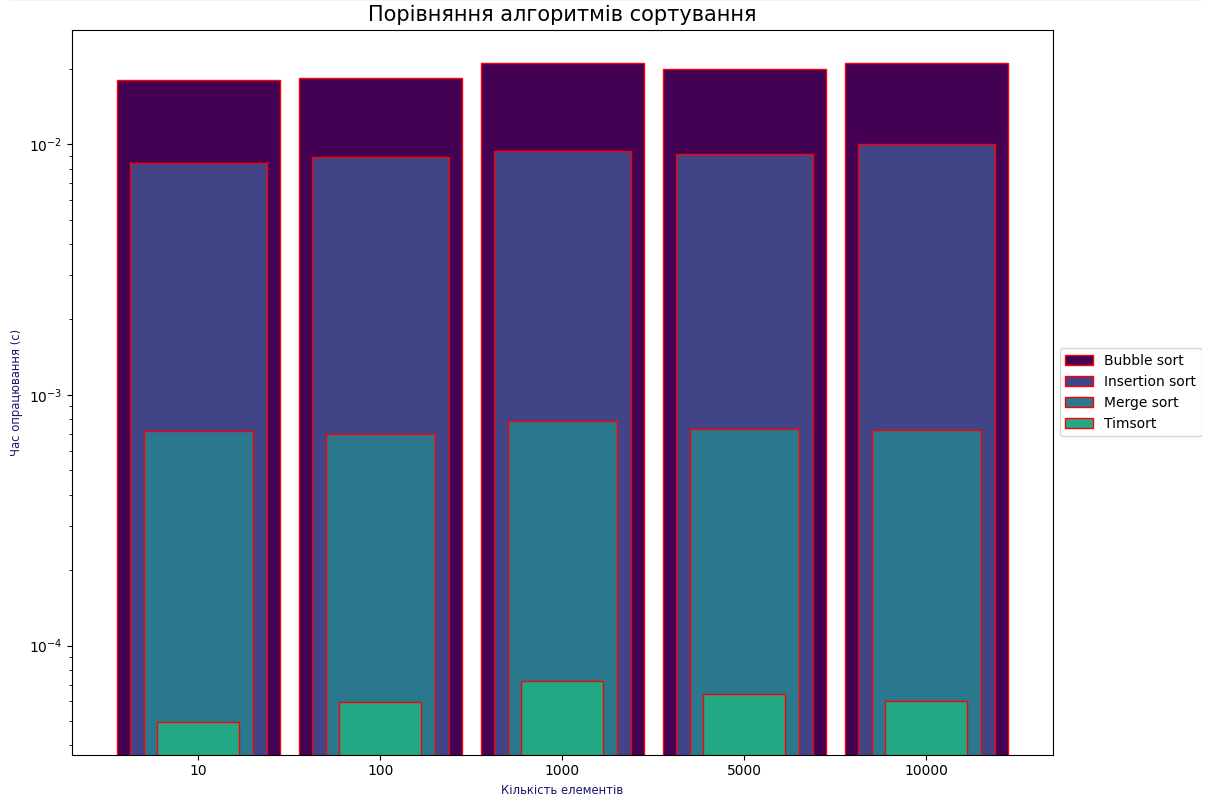
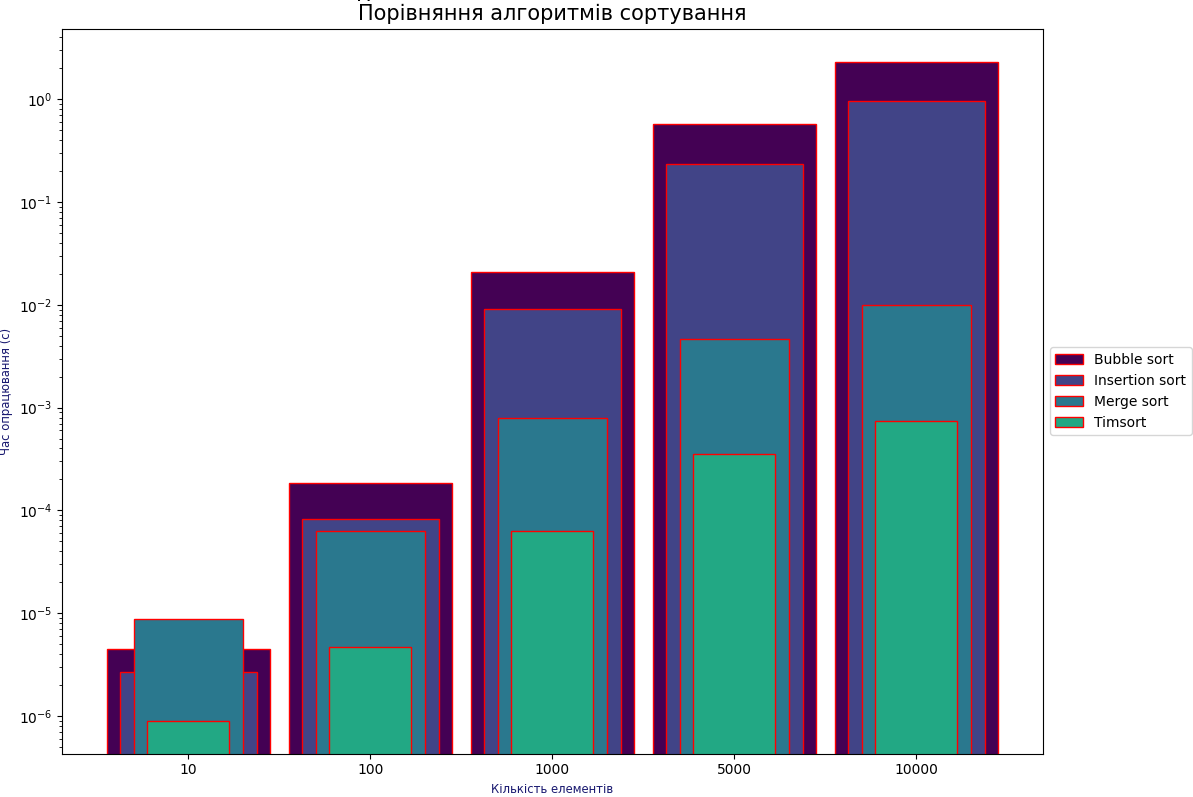
Fixed mistake with forming data

diff --git a/main.py b/main.py
@@ -54,7 +54,7 @@ def data_sort(number: int) -> dict:
     Словник відсортованих даних різними методами для певної кількості даних
     '''
     result = {}
-    data = [random.randint(0, number) for _ in range(1000)]
+    data = [random.randint(0, 1000) for _ in range(number)]
     result['Bubble sort'] = measure_time(data, bubble_sort)
     result['Insertion sort'] = measure_time(data, insertion_sort)
     result['Merge sort'] = measure_time(data, merge_sort)

diff --git a/README.md b/README.md
@@ -12,7 +12,7 @@
 <img src='diagram.png'>
 <p>Як вбачається з експерименту:</p>
 <ul>
-    <li><p>Timsort є найкращим алгоритмом сортування, що показує відмінні результати, особливо для надмалих колекцій даних. Він на порядок швидший за сортування злиттям та на 2 порядки за сортування бульбашкою та вставками;</p></li>
-    <li><p>- В своючергу, сортування злиттям на порядок швидший за сортування бульбашкою та вставками;</p></li>
-    <li><p>- Сортування вставками дещо випереджає сортування бульбашкою, яке є найменш швидким з усіх алгоритмів.</p></li>
+    <li><p>Timsort є найкращим алгоритмом сортування, що показує відмінні результати на всіх розмірах сортувальних даних. Він на порядок швидший за сортування злиттям та на 2 порядки за сортування бульбашкою та вставками (по останніх двох результат покращується із збільшенням кількості сортувальних даних);</p></li>
+    <li><p>- В свою чергу, сортування злиттям на порядок швидший за сортування бульбашкою та вставками, але при кількості даних більшій за 1000. Інакше він майже однаковий із сортуванням вставками. А на досить маленьких наборах даних (менше 20) навіть програє сортуванню бульбашками та вставками;</p></li>
+    <li><p>- Сортування вставками дещо випереджає сортування бульбашкою на всіх розмірах даних, яке є найменш швидким з усіх алгоритмів.</p></li>
 </ul>
